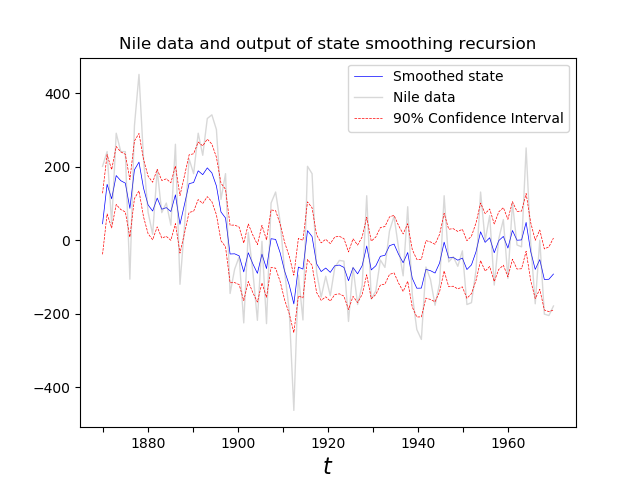
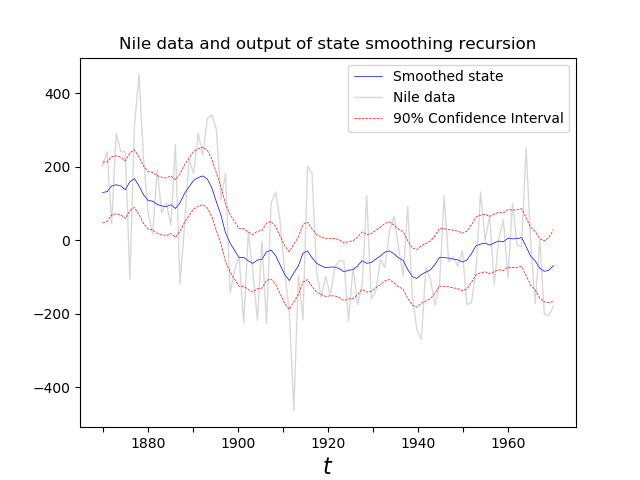
added figure 2.5 and 2.6

diff --git a/12.py b/12.py
@@ -5,6 +5,7 @@ Plots figure 2.1 to 2.3
 import numpy as np
 import math
 import matplotlib.pyplot as plt
+from copy import copy
 
 class Nile:
     def __init__(self):
@@ -17,6 +18,8 @@ class Nile:
 
         for i in range(self.n):
             self.y[i] = int(self.data[i][0])
+
+        self.y = self.y.tolist()
 
         self.vareta = 1469.1
         self.vareps = 15099
@@ -35,14 +38,14 @@ class Nile:
 
             for i in range(self.n):
                 self.y[i] = self.y[i] - meanY
-                
+
         else:
             raise ValueError("The phi you've picked is not within the feasible range!")
-
 
         # initializations Kalman Smoother
         self.rn = 0
         self.Nn = 0
+
         # the label for the x-axis
         self.xYears = ["", 1880, "", 1900, "", 1920, "", 1940, "", 1960]
         self.x = np.linspace(0,10,self.n)
@@ -58,20 +61,24 @@ class Nile:
         self.P[0] = self.P1
 
         for t in range(self.n):
-            self.v[t] = self.y[t] - self.a[t]
-            self.f[t] = self.P[t] + self.vareps
-            self.k[t] = self.T * self.P[t]/self.f[t]
+            if self.y[t] == None :
+                # doesn't really matter
+                self.v[t] = 0
+                self.f[t] = self.P[t] + self.vareps
+                self.k[t] = 0
+            else:
+                self.v[t] = self.y[t] - self.a[t]
+                self.f[t] = self.P[t] + self.vareps
+                self.k[t] = self.T * self.P[t]/self.f[t]
+
             self.a[t+1] = self.T*self.a[t] + self.k[t]*self.v[t]
             self.P[t+1] = (self.T**2) * self.P[t] + self.vareta - (self.k[t]**2) * self.f[t]
-
-        self.a = self.a[1:]
-        self.P = self.P[1:]
 
     def KalmanSmoother(self):
         self.r = np.zeros(self.n)
         self.N = np.zeros(self.n)
-        self.alphahat = np.zeros(self.n)
-        self.V = np.zeros(self.n)
+        self.alphahat = np.zeros(self.n + 1)
+        self.V = np.zeros(self.n + 1)
 
         self.r[self.n - 1] = self.rn
         self.N[self.n - 1] = self.Nn
@@ -81,9 +88,9 @@ class Nile:
             self.N[t - 1] = 1/self.f[t] + self.N[t] * (self.T - self.k[t]) ** 2
 
         for i in range(self.n):
-            t = self.n - 1 - i
+            t = self.n - i
             self.alphahat[t] = self.a[t] + self.P[t] * self.r[t-1]
-            self.V[t] = self.P[t] - (self.P[t] ** 2) * self.N[t]
+            self.V[t] = self.P[t] - (self.P[t] ** 2) * self.N[t-1]
 
     def DisturbanceSmoother(self):
         self.mu = np.zeros(self.n)
@@ -108,11 +115,11 @@ class Nile:
         lowerboundCI = np.zeros(self.n)
         upperboundCI = np.zeros(self.n)
         for i in range(self.n):
-            lowerboundCI[i] = self.a[i] - 1.645*np.sqrt(self.P[i])
-            upperboundCI[i] = self.a[i] + 1.645*np.sqrt(self.P[i])
+            lowerboundCI[i] = self.a[i+1] - 1.645*np.sqrt(self.P[i+1])
+            upperboundCI[i] = self.a[i+1] + 1.645*np.sqrt(self.P[i+1])
 
         plt.figure()
-        plt.plot(self.x, self.a, color="blue", label=r'$\alpha_t$', linewidth=0.5)
+        plt.plot(self.x, self.a[1:], color="blue", label=r'$\alpha_t$', linewidth=0.5)
         plt.plot(self.x, self.y, color="grey", label='Nile data', linewidth=1, alpha=0.3)
         plt.plot(self.x, lowerboundCI, color="red", label='90% Confidence Interval', linewidth=0.5, linestyle="dashed")
         plt.plot(self.x, upperboundCI, color="red", linewidth=0.5, linestyle="dashed")
@@ -124,7 +131,7 @@ class Nile:
 
         """ 2.1.ii """
         plt.figure()
-        plt.plot(self.x, self.P, color="blue", linewidth=0.5)
+        plt.plot(self.x, self.P[1:], color="blue", linewidth=0.5)
         plt.xticks(np.arange(10), self.xYears)
         plt.xlabel(r'$t$',fontsize=16)
         plt.title('Filtered state variance ' + r'$P_t$',fontsize=12)
@@ -143,6 +150,7 @@ class Nile:
         """ 2.1.iv """
         plt.figure()
         plt.axhline(y=0, color='k', linewidth=0.5)
+        plt.ylim(bottom=20000, top=32500)
         plt.plot(self.x, self.f, color="blue", linewidth=0.5)
         plt.xticks(np.arange(10), self.xYears)
         plt.xlabel(r'$t$',fontsize=16)
@@ -154,11 +162,11 @@ class Nile:
         lowerboundCI = np.zeros(self.n)
         upperboundCI = np.zeros(self.n)
         for i in range(self.n):
-            lowerboundCI[i] = self.alphahat[i] - 1.645*np.sqrt(self.V[i])
-            upperboundCI[i] = self.alphahat[i] + 1.645*np.sqrt(self.V[i])
+            lowerboundCI[i] = self.alphahat[i+1] - 1.645*np.sqrt(self.V[i+1])
+            upperboundCI[i] = self.alphahat[i+1] + 1.645*np.sqrt(self.V[i+1])
 
         plt.figure()
-        plt.plot(self.x, self.alphahat, color="blue", label='Smoothed state', linewidth=0.5)
+        plt.plot(self.x, self.alphahat[1:], color="blue", label='Smoothed state', linewidth=0.5)
         plt.plot(self.x, self.y, color="grey", label='Nile data', linewidth=1, alpha=0.3)
         plt.plot(self.x, lowerboundCI, color="red", label='90% Confidence Interval', linewidth=0.5, linestyle="dashed")
         plt.plot(self.x, upperboundCI, color="red", linewidth=0.5, linestyle="dashed")
@@ -171,7 +179,7 @@ class Nile:
         """ 2.2.ii """
         plt.figure()
         plt.ylim(bottom=2000, top=4200)
-        plt.plot(self.x, self.V, color="blue", linewidth=0.5)
+        plt.plot(self.x, self.V[1:], color="blue", linewidth=0.5)
         plt.xticks(np.arange(10), self.xYears)
         plt.xlabel(r'$t$',fontsize=16)
         plt.title('Smoothed state variance ' + r'$V_t$',fontsize=12)
@@ -229,14 +237,144 @@ class Nile:
         plt.title('State error standard error ' + r'$\sqrt{Var(\eta_t | y)}$',fontsize=12)
         plt.draw()
 
+    def treatAsMissing(self):
+        for i in range(20, 40):
+            self.y[i] = int(self.y[i])
+            self.y[i] = None
+        for i in range(60, 80):
+            self.y[i] = int(self.y[i])
+            self.y[i] = None
+
+    def fig5(self):
+        """ 2.5.i """
+        plt.figure()
+        plt.plot(self.x, self.a[1:], color="blue", label=r'$\alpha_t$', linewidth=0.5)
+        plt.plot(self.x, self.y, color="grey", label='Nile data', linewidth=1, alpha=0.3)
+        plt.xticks(np.arange(10), self.xYears)
+        plt.legend(loc='upper right')
+        plt.xlabel(r'$t$',fontsize=16)
+        plt.title('Filtered state ' + r'$\alpha_t$ ' + '(extrapolation)',fontsize=12)
+        plt.draw()
+
+        """ 2.5.ii """
+        plt.figure()
+        plt.plot(self.x, self.P[1:], color="blue", linewidth=0.5)
+        plt.xticks(np.arange(10), self.xYears)
+        plt.xlabel(r'$t$',fontsize=16)
+        plt.title('Filtered state variance ' + r'$P_t$',fontsize=12)
+        plt.draw()
+
+        """ 2.5.iii """
+        plt.figure()
+        plt.plot(self.x, self.alphahat[1:], color="blue", label='Smoothed state', linewidth=0.5)
+        plt.plot(self.x, self.y, color="grey", label='Nile data', linewidth=1, alpha=0.3)
+        plt.xticks(np.arange(10), self.xYears)
+        plt.legend(loc='upper right')
+        plt.xlabel(r'$t$',fontsize=16)
+        plt.title('Smoothed state ' + r'$\hat{\alpha_t}$ ' + '(interpolation)',fontsize=12)
+        plt.draw()
+
+        """ 2.5.iv """
+        plt.figure()
+        plt.ylim(bottom=2000, top=10000)
+        plt.plot(self.x, self.V[1:], color="blue", linewidth=0.5)
+        plt.xticks(np.arange(10), self.xYears)
+        plt.xlabel(r'$t$',fontsize=16)
+        plt.title('Smoothed state variance ' + r'$V_t$',fontsize=12)
+        plt.draw()
+
+    def resetY(self):
+        self.data = [i.strip().split() for i in open("DK-data/Nile.dat").readlines()]
+        self.data.pop(0)
+
+        self.y = np.zeros(len(self.data))
+
+        self.n = len(self.y)
+
+        for i in range(self.n):
+            self.y[i] = int(self.data[i][0])
+
+        self.y = self.y.tolist()
+
+    def extendData(self):
+        for i in range(30):
+            self.y.append(None)
+
+        self.n = len(self.y)
+
+        # relabel for the x-axis
+        self.xYears = ["", 1890, 1910, 1930, 1950, 1970, 1990, 2010]
+        self.x = np.linspace(0,8,self.n)
+
+
+    def fig6(self):
+        """ 2.6.i """
+        lowerboundCI = np.zeros(self.n)
+        upperboundCI = np.zeros(self.n)
+        for i in range(self.n):
+            lowerboundCI[i] = self.a[i+1] - 0.67449*np.sqrt(self.P[i+1])
+            upperboundCI[i] = self.a[i+1] + 0.67449*np.sqrt(self.P[i+1])
+
+        plt.figure()
+        plt.plot(self.x, self.a[1:], color="blue", label=r'$\alpha_t$', linewidth=0.5)
+        plt.plot(self.x, self.y, color="grey", label='Nile data', linewidth=1, alpha=0.3)
+        plt.plot(self.x, lowerboundCI, color="red", label='50% Confidence Interval', linewidth=0.5, linestyle="dashed")
+        plt.plot(self.x, upperboundCI, color="red", linewidth=0.5, linestyle="dashed")
+        plt.xticks(np.arange(8), self.xYears)
+        plt.legend(loc='upper right')
+        plt.xlabel(r'$t$',fontsize=16)
+        plt.title('State forecast' + r'$\alpha_t$ ' + 'and its 50% confidence intervals',fontsize=12)
+        plt.draw()
+
+        """ 2.6.ii """
+        plt.figure()
+        plt.plot(self.x, self.P[1:], color="blue", linewidth=0.5)
+        plt.xticks(np.arange(8), self.xYears)
+        plt.xlabel(r'$t$',fontsize=16)
+        plt.title('State variance ' + r'$P_t$',fontsize=12)
+        plt.draw()
+
+        """ 2.6.iii """
+        plt.figure()
+        plt.plot(self.x, self.a[1:], color="blue", label=r'$\alpha_t$', linewidth=0.5)
+        plt.xticks(np.arange(8), self.xYears)
+        plt.xlabel(r'$t$',fontsize=16)
+        plt.title('Observation forecast' + r'$E(y_t | Y_{t-1})$ ',fontsize=12)
+        plt.draw()
+
+        """ 2.6.iv """
+        plt.figure()
+        plt.axhline(y=0, color='k', linewidth=0.5)
+        plt.ylim(bottom=20000, top=96000)
+        plt.plot(self.x, self.f, color="blue", linewidth=0.5)
+        plt.xticks(np.arange(8), self.xYears)
+        plt.xlabel(r'$t$',fontsize=16)
+        plt.title('Observation forecast variance ' + r'$F_t$',fontsize=12)
+        plt.draw()
+
+
 def main():
     nile = Nile()
+
+    nile.KalmanFilter()
+    #nile.fig1()
+
+    nile.KalmanSmoother()
+    #nile.fig2()
+
+    nile.DisturbanceSmoother()
+    #nile.fig3()
+
+    nile.treatAsMissing()
     nile.KalmanFilter()
     nile.KalmanSmoother()
-    nile.DisturbanceSmoother()
-    nile.fig1()
-    nile.fig2()
-    nile.fig3()
+    #nile.fig5()
+
+    nile.resetY()
+    nile.extendData()
+    nile.KalmanFilter()
+    nile.fig6()
+
     plt.show()
 
 if __name__ == "__main__":
